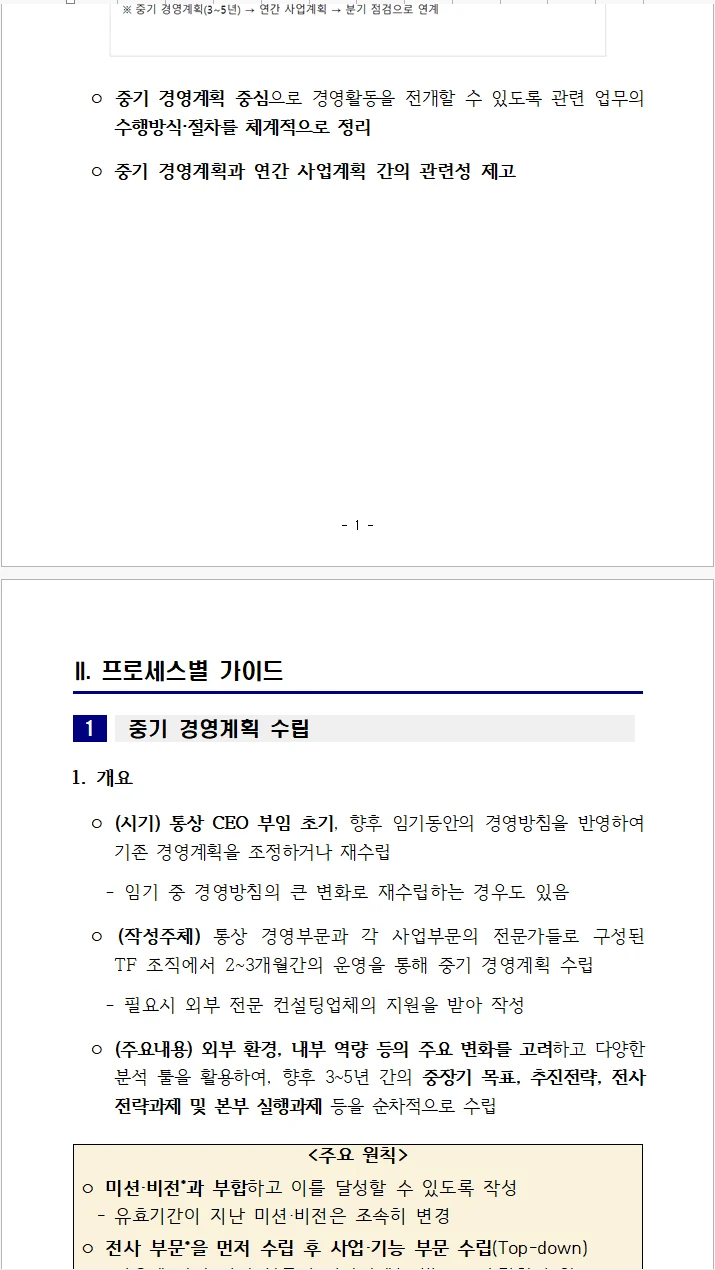
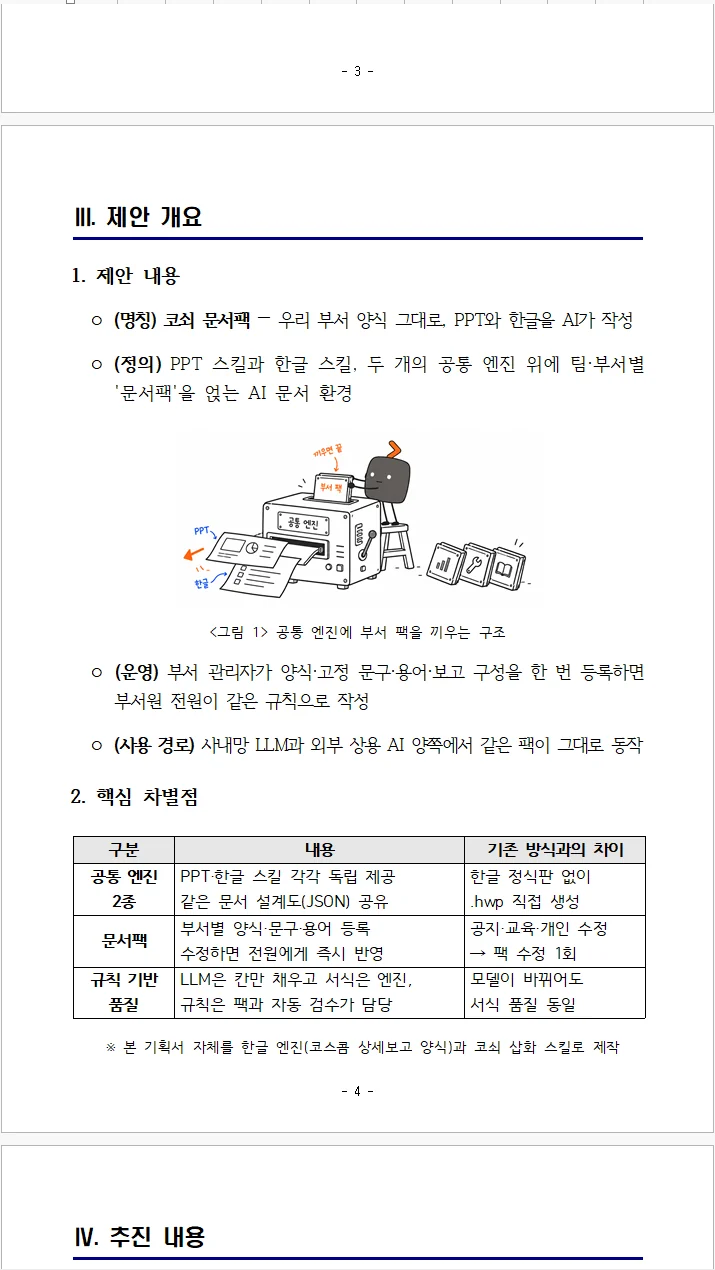
예시 덱 부록 D 한글 출력 예시를 「코쇠문서팩_기획서.hwp」 화면으로 교체

diff --git a/skills/koscom-webslide/template/index.html b/skills/koscom-webslide/template/index.html
@@ -1300,12 +1300,12 @@ body.editing .chart-edit{display:block}
       <h3>PPT 엔진 — 서류 제출본 「코쇠 덱」 24쪽</h3>
       <div class="chip-row" style="margin-bottom:12px"><span class="tag solid">24쪽 갤러리 · 별도 22장 시간 기록과 구분</span><span class="tag">수정 가능한 PPTX — PowerPoint에서 바로 수정</span><span class="tag">Koscom Chevron 템플릿</span></div>
       <div class="gal"><button class="shot" data-lbi="1"><img loading="lazy" src="assets/gallery/ppt-01.webp" alt="코쇠 덱 1쪽" data-lb data-cap="「코쇠 덱」 서류 제출본 1 / 24쪽"><span>1</span></button><button class="shot" data-lbi="2"><img loading="lazy" src="assets/gallery/ppt-02.webp" alt="코쇠 덱 2쪽" data-lb data-cap="「코쇠 덱」 서류 제출본 2 / 24쪽"><span>2</span></button><button class="shot" data-lbi="3"><img loading="lazy" src="assets/gallery/ppt-03.webp" alt="코쇠 덱 3쪽" data-lb data-cap="「코쇠 덱」 서류 제출본 3 / 24쪽"><span>3</span></button><button class="shot" data-lbi="4"><img loading="lazy" src="assets/gallery/ppt-04.webp" alt="코쇠 덱 4쪽" data-lb data-cap="「코쇠 덱」 서류 제출본 4 / 24쪽"><span>4</span></button><button class="shot" data-lbi="5"><img loading="lazy" src="assets/gallery/ppt-05.webp" alt="코쇠 덱 5쪽" data-lb data-cap="「코쇠 덱」 서류 제출본 5 / 24쪽"><span>5</span></button><button class="shot" data-lbi="6"><img loading="lazy" src="assets/gallery/ppt-06.webp" alt="코쇠 덱 6쪽" data-lb data-cap="「코쇠 덱」 서류 제출본 6 / 24쪽"><span>6</span></button><button class="shot" data-lbi="7"><img loading="lazy" src="assets/gallery/ppt-07.webp" alt="코쇠 덱 7쪽" data-lb data-cap="「코쇠 덱」 서류 제출본 7 / 24쪽"><span>7</span></button><button class="shot" data-lbi="8"><img loading="lazy" src="assets/gallery/ppt-08.webp" alt="코쇠 덱 8쪽" data-lb data-cap="「코쇠 덱」 서류 제출본 8 / 24쪽"><span>8</span></button><button class="shot" data-lbi="9"><img loading="lazy" src="assets/gallery/ppt-09.webp" alt="코쇠 덱 9쪽" data-lb data-cap="「코쇠 덱」 서류 제출본 9 / 24쪽"><span>9</span></button><button class="shot" data-lbi="10"><img loading="lazy" src="assets/gallery/ppt-10.webp" alt="코쇠 덱 10쪽" data-lb data-cap="「코쇠 덱」 서류 제출본 10 / 24쪽"><span>10</span></button><button class="shot" data-lbi="11"><img loading="lazy" src="assets/gallery/ppt-11.webp" alt="코쇠 덱 11쪽" data-lb data-cap="「코쇠 덱」 서류 제출본 11 / 24쪽"><span>11</span></button><button class="shot" data-lbi="12"><img loading="lazy" src="assets/gallery/ppt-12.webp" alt="코쇠 덱 12쪽" data-lb data-cap="「코쇠 덱」 서류 제출본 12 / 24쪽"><span>12</span></button><button class="shot" data-lbi="13"><img loading="lazy" src="assets/gallery/ppt-13.webp" alt="코쇠 덱 13쪽" data-lb data-cap="「코쇠 덱」 서류 제출본 13 / 24쪽"><span>13</span></button><button class="shot" data-lbi="14"><img loading="lazy" src="assets/gallery/ppt-14.webp" alt="코쇠 덱 14쪽" data-lb data-cap="「코쇠 덱」 서류 제출본 14 / 24쪽"><span>14</span></button><button class="shot" data-lbi="15"><img loading="lazy" src="assets/gallery/ppt-15.webp" alt="코쇠 덱 15쪽" data-lb data-cap="「코쇠 덱」 서류 제출본 15 / 24쪽"><span>15</span></button><button class="shot" data-lbi="16"><img loading="lazy" src="assets/gallery/ppt-16.webp" alt="코쇠 덱 16쪽" data-lb data-cap="「코쇠 덱」 서류 제출본 16 / 24쪽"><span>16</span></button><button class="shot" data-lbi="17"><img loading="lazy" src="assets/gallery/ppt-17.webp" alt="코쇠 덱 17쪽" data-lb data-cap="「코쇠 덱」 서류 제출본 17 / 24쪽"><span>17</span></button><button class="shot" data-lbi="18"><img loading="lazy" src="assets/gallery/ppt-18.webp" alt="코쇠 덱 18쪽" data-lb data-cap="「코쇠 덱」 서류 제출본 18 / 24쪽"><span>18</span></button><button class="shot" data-lbi="19"><img loading="lazy" src="assets/gallery/ppt-19.webp" alt="코쇠 덱 19쪽" data-lb data-cap="「코쇠 덱」 서류 제출본 19 / 24쪽"><span>19</span></button><button class="shot" data-lbi="20"><img loading="lazy" src="assets/gallery/ppt-20.webp" alt="코쇠 덱 20쪽" data-lb data-cap="「코쇠 덱」 서류 제출본 20 / 24쪽"><span>20</span></button><button class="shot" data-lbi="21"><img loading="lazy" src="assets/gallery/ppt-21.webp" alt="코쇠 덱 21쪽" data-lb data-cap="「코쇠 덱」 서류 제출본 21 / 24쪽"><span>21</span></button><button class="shot" data-lbi="22"><img loading="lazy" src="assets/gallery/ppt-22.webp" alt="코쇠 덱 22쪽" data-lb data-cap="「코쇠 덱」 서류 제출본 22 / 24쪽"><span>22</span></button><button class="shot" data-lbi="23"><img loading="lazy" src="assets/gallery/ppt-23.webp" alt="코쇠 덱 23쪽" data-lb data-cap="「코쇠 덱」 서류 제출본 23 / 24쪽"><span>23</span></button><button class="shot" data-lbi="24"><img loading="lazy" src="assets/gallery/ppt-24.webp" alt="코쇠 덱 24쪽" data-lb data-cap="「코쇠 덱」 서류 제출본 24 / 24쪽"><span>24</span></button></div>
-      <h3>한글 엔진 — 요약보고·상세보고 출력 예시</h3>
+      <h3>한글 엔진 — 상세보고 출력 예시 「코쇠문서팩_기획서.hwp」</h3>
       <div class="hwpshots">
-        <figure><div class="illu tilt-off"><img src="assets/gallery/hwp-summary.webp" alt="한글 엔진 요약보고 출력 화면" data-lb data-cap="한글 엔진 · 요약보고 출력 예시 (가명·가상 내용, 한컴 뷰어 화면)"></div><figcaption>요약보고 — □ ㅇ - · 단계, 제목 박스, 첨부 박스</figcaption></figure>
-        <figure><div class="illu tilt-off"><img src="assets/gallery/hwp-detail.webp" alt="한글 엔진 상세보고 출력 화면" data-lb data-cap="한글 엔진 · 상세보고 출력 예시 (가상 내용, 한컴 뷰어 화면)"></div><figcaption>상세보고 — 장절 제목, 번호 박스, 참고 박스</figcaption></figure>
+        <figure><div class="illu tilt-off"><img src="assets/gallery/hwp-summary.webp" alt="한글 엔진 상세보고 출력 — 표지와 목차" data-lb data-cap="한글 엔진 · 상세보고 출력 「코쇠문서팩_기획서.hwp」 표지·목차 (가명, 한컴 뷰어 화면)"></div><figcaption>표지·목차 — 로고, 제목 띠, 결재 칸, 자동 목차</figcaption></figure>
+        <figure><div class="illu tilt-off"><img src="assets/gallery/hwp-detail.webp" alt="한글 엔진 상세보고 출력 — 본문" data-lb data-cap="한글 엔진 · 상세보고 출력 「코쇠문서팩_기획서.hwp」 본문 4쪽 (한컴 뷰어 화면)"></div><figcaption>본문 — 장 제목, ㅇ 항목, 그림 번호, 표</figcaption></figure>
       </div>
-      <p class="note" style="margin-top:10px">가명·가상 내용으로 만든 출력을 한컴 뷰어로 연 화면입니다. 편집 모드에서 그림을 더블클릭하면 「코쇠오피스」 .hwp 화면 등으로 바꿀 수 있습니다.</p>
+      <p class="note" style="margin-top:10px">공모전 전 보유한 한글 엔진이 이 기획서 원안을 코스콤 상세보고 양식 .hwp(표지·목차 + 본문 12쪽 + 첨부)로 만든 출력을 한컴 뷰어로 연 화면입니다. 원안 시점의 출력이라 옛 이름(코쇠 문서팩)과 원안 표현이 남아 있습니다. 담당자는 가명입니다.</p>
       <h3>웹슬라이드 엔진 — 지금 이 화면</h3>
       <div class="live-strip"><span class="badge-live">LIVE</span>이 기획서 전체가 웹슬라이드 엔진의 결과물입니다. 차트·애니메이션·편집 모드까지 한 HTML 파일에 들어 있습니다.</div>
     </div>
